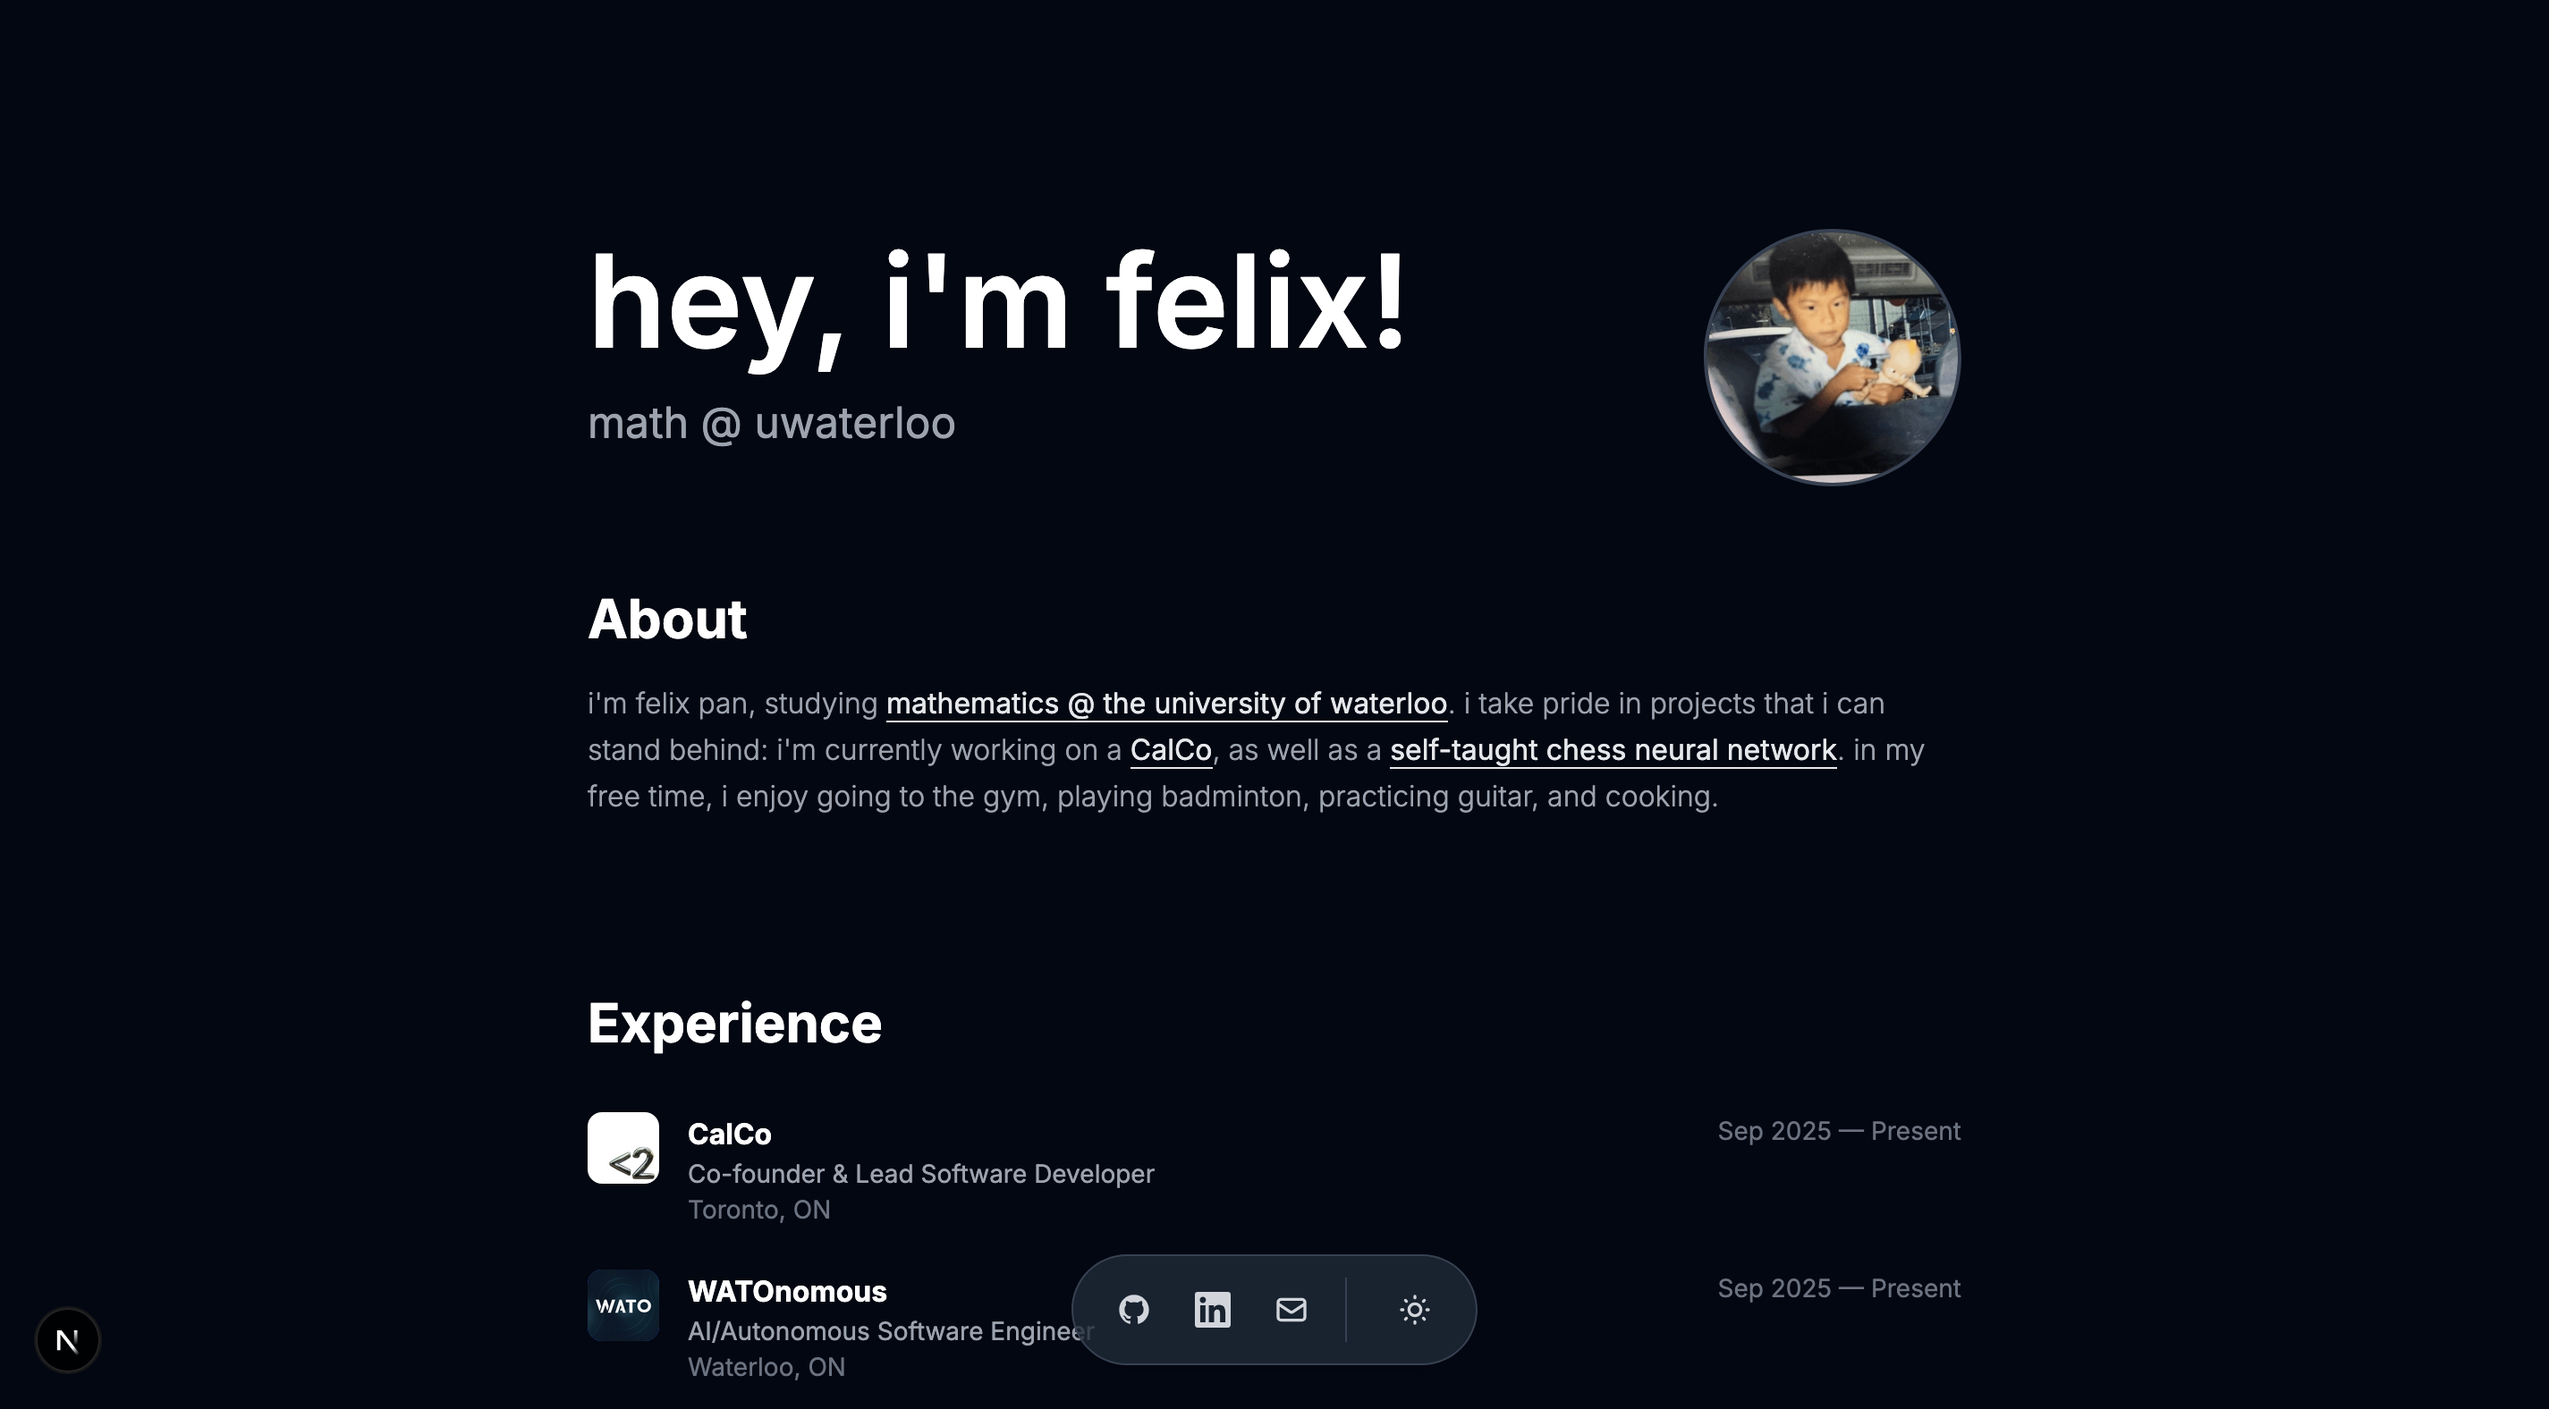
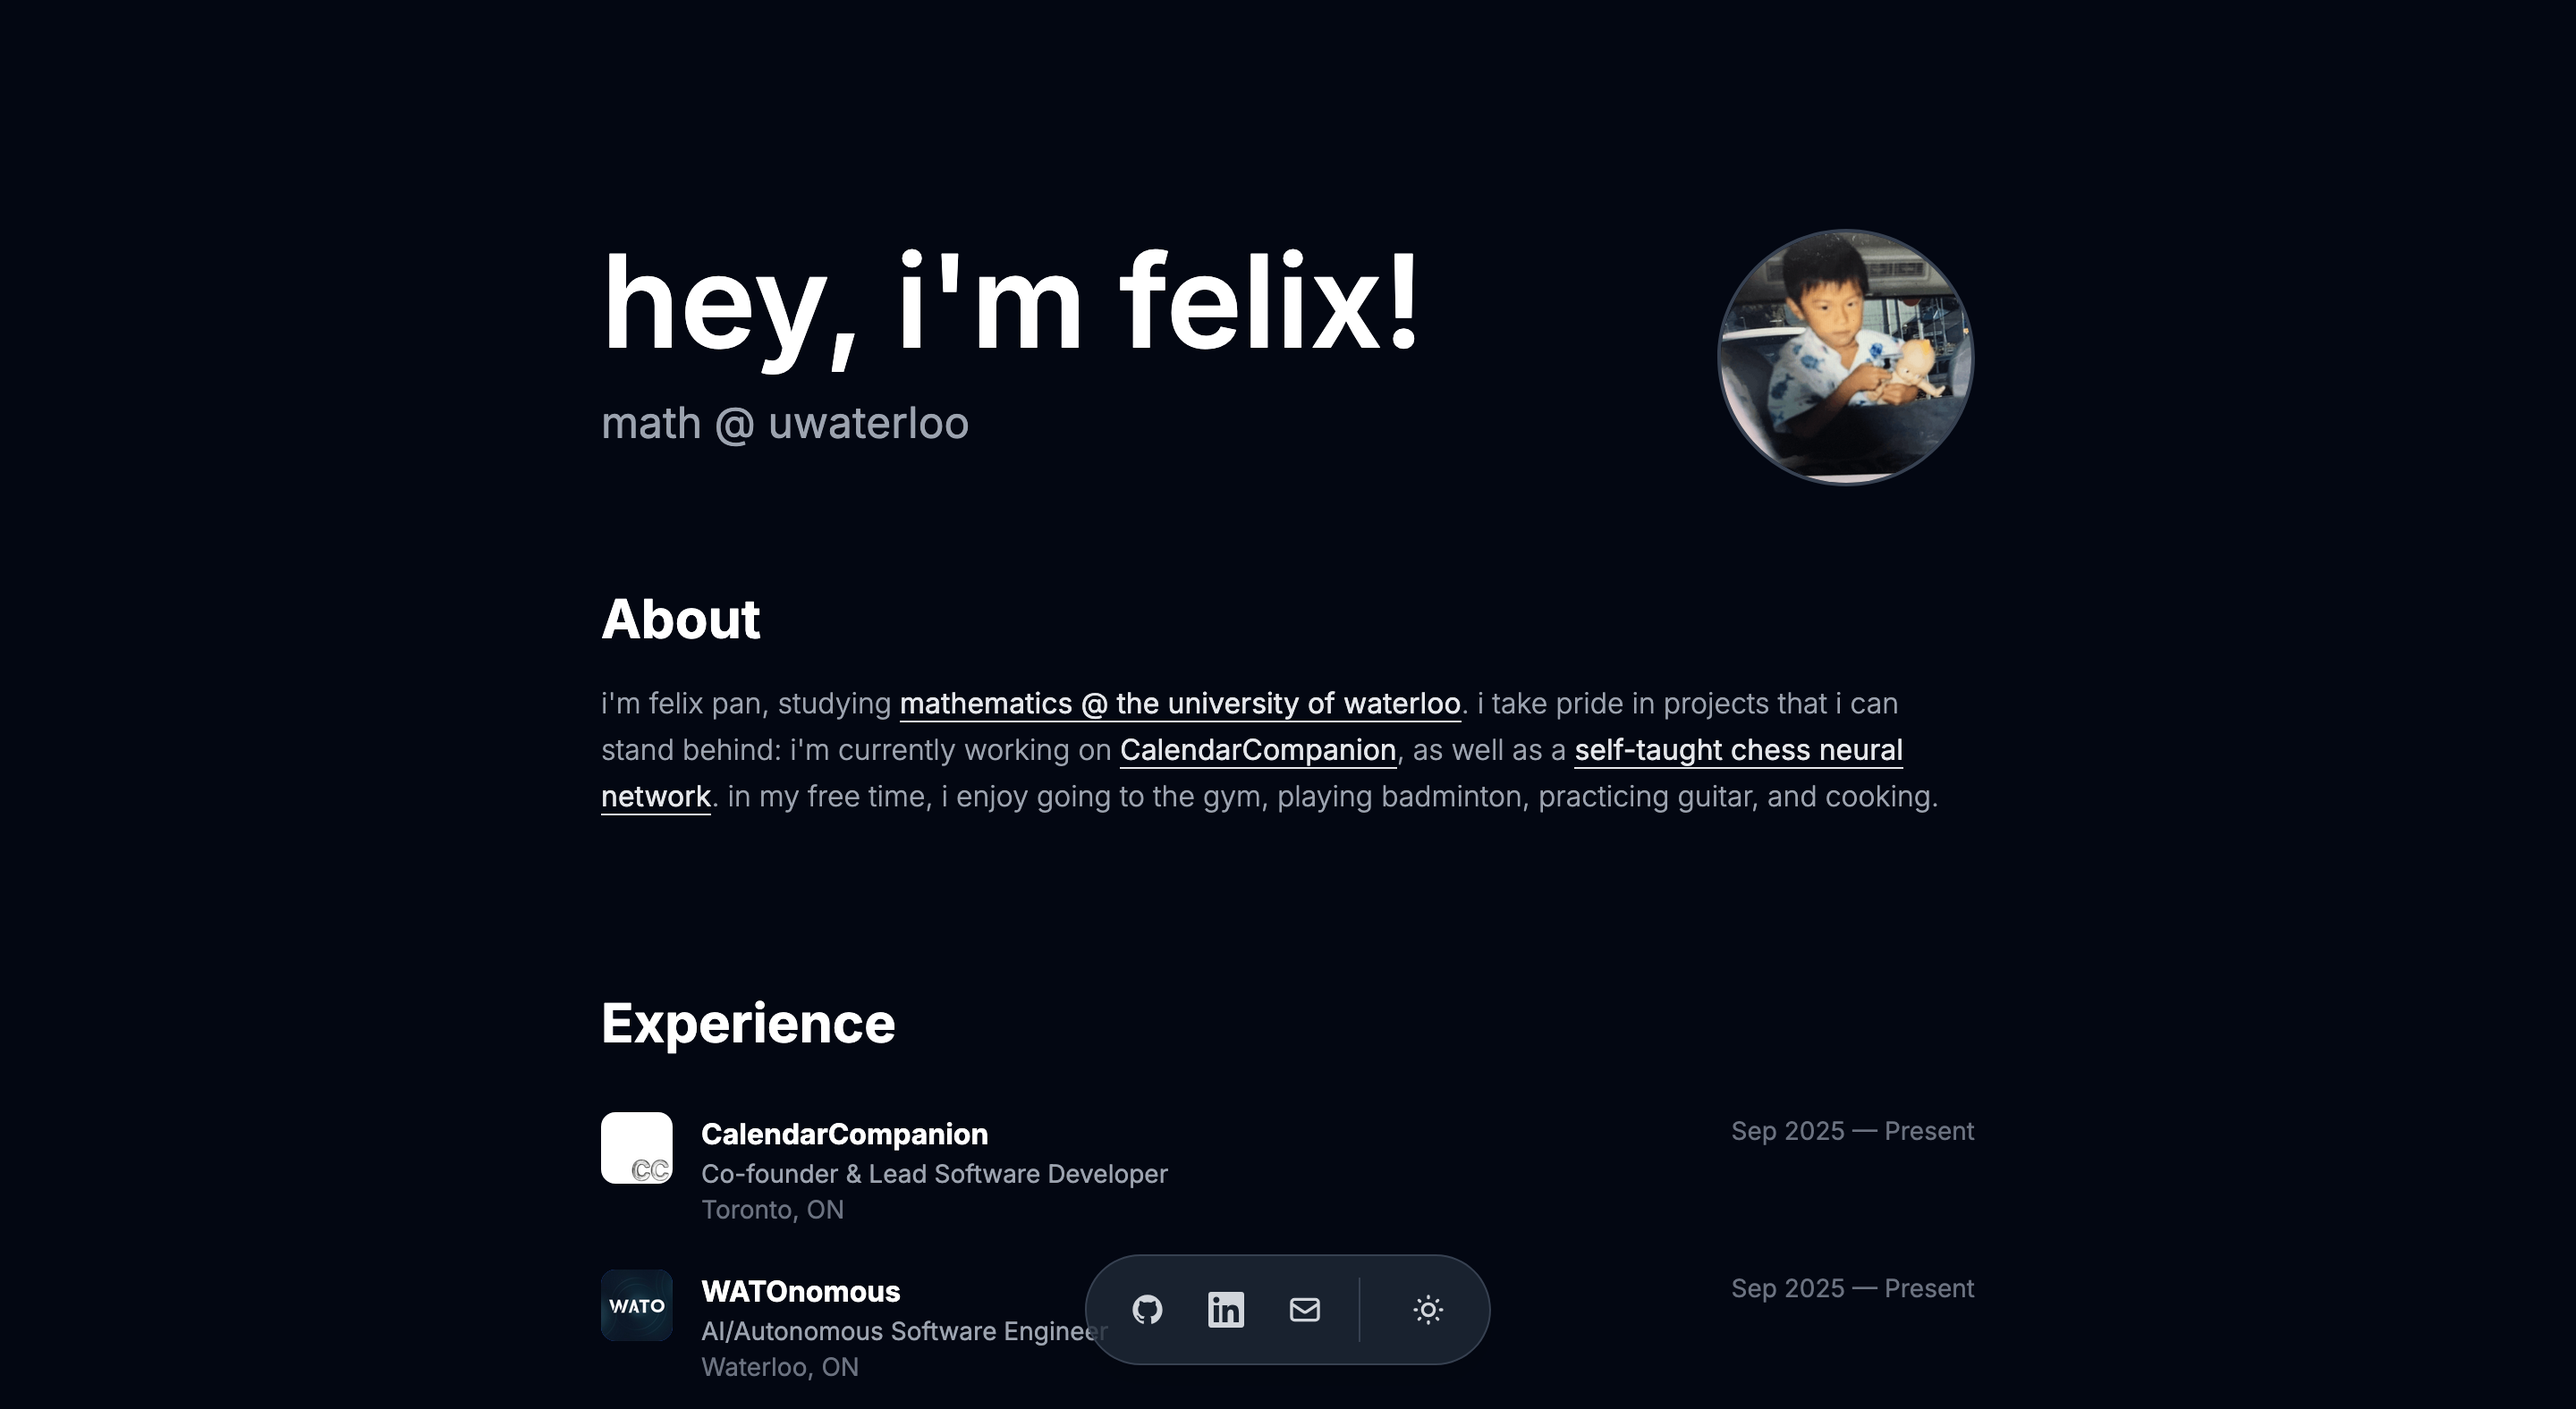
updates

diff --git a/app/page.tsx b/app/page.tsx
@@ -11,11 +11,11 @@ const fadeInUp = {
 
 const workExperience = [
   {
-    company: "CalCo",
+    company: "CalendarCompanion",
     role: "Co-founder & Lead Software Developer",
     location: "Toronto, ON",
     date: "Sep 2025 — Present",
-    logo: "/logos/calco.png",
+    logo: "/logos/cclogosmall.png",
     logoBg: "bg-white-500",
   },
   {
@@ -156,12 +156,12 @@ export default function Home() {
                 mathematics @ the university of waterloo
               </a>
               . i take pride in projects that i can stand behind: i'm currently
-              working on a{" "}
+              working on{" "}
               <a
                 href="#experience"
                 className="font-normal text-gray-900 underline decoration-1 underline-offset-4 transition-colors hover:text-highlight/80 dark:text-gray-200"
               >
-                CalCo
+                CalendarCompanion
               </a>
               , as well as a{" "}
               <a

diff --git a/components/bottom-nav.tsx b/components/bottom-nav.tsx
@@ -80,7 +80,7 @@ export function BottomNav() {
           </motion.a>
 
           <motion.a
-            href="mailto:felixpan@uwaterloo.ca"
+            href="mailto:felix.pan@uwaterloo.ca"
             whileHover={{ scale: 1.1 }}
             whileTap={{ scale: 0.95 }}
             className="rounded-full p-2 transition-colors hover:bg-gray-100 dark:hover:bg-gray-700"
